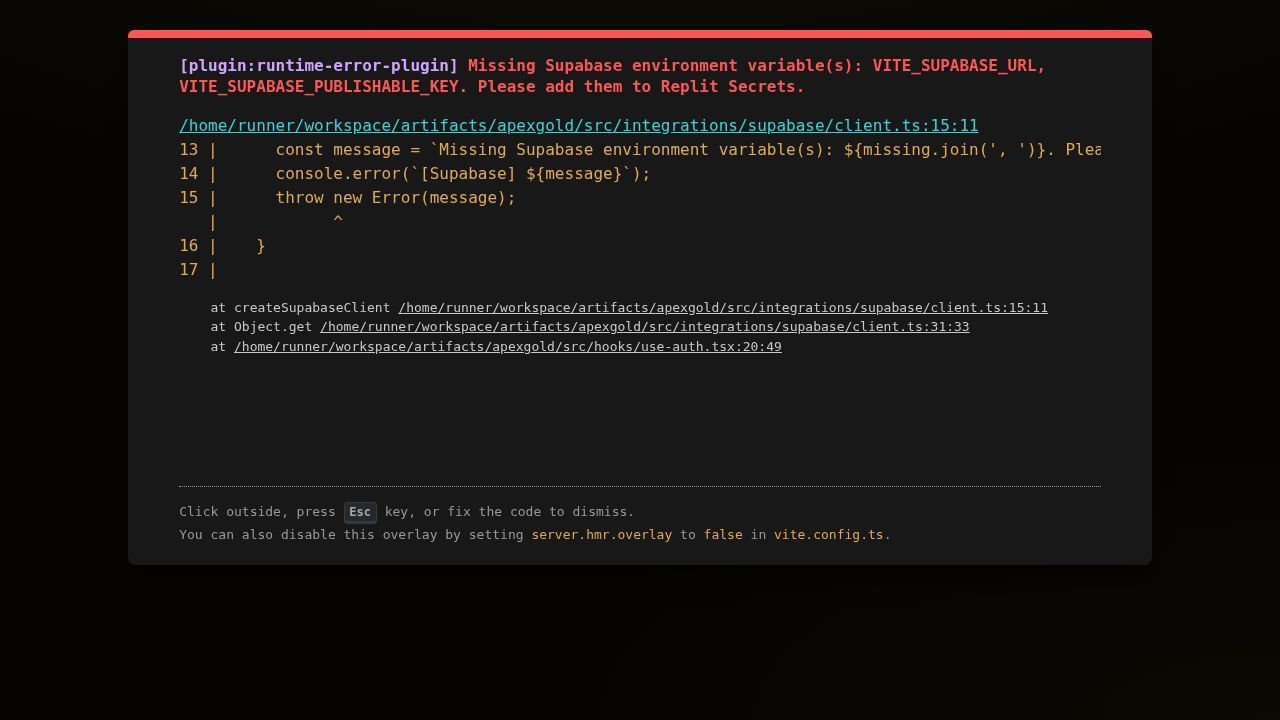
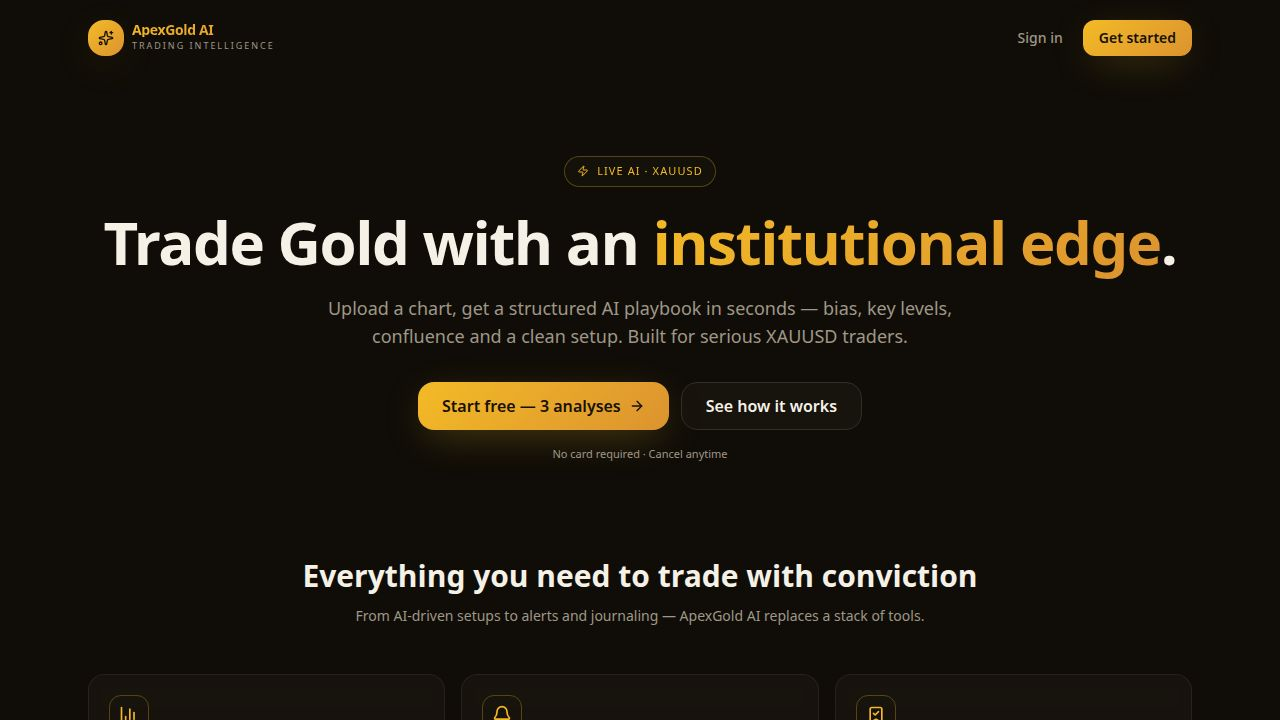
feat: show image size savings badge in chart preview before submit
Task: Show image size savings to the user before they submit a chart (#5)

Changes:
- Updated `fileToCompressedDataUrl` in `ApexDashboard.tsx` to return two
  new fields alongside the existing `url`, `base64`, and `mime`:
    • `compressedKB` — the post-compression byte size in KB, computed as
      `Math.round(base64.length * 0.75 / 1024)` (accurate base64 → bytes)
    • `wasResized` — boolean, true when the original image exceeded 900px
      on either side and was scaled down before JPEG encoding
- Updated the `file` state type in `ScreenshotAnalyzer` to include the
  two new fields.
- Added a badge row absolutely positioned at the bottom-left of the image
  preview container:
    • "Compressed to X KB" badge (always shown after a file is selected)
    • "Resized for faster analysis" badge (only shown when `wasResized` is true)
  Both badges use the existing frosted-glass style (bg-background/80 +
  backdrop-blur + border-border) and a small gold Zap/Activity icon.

No deviations from the task spec. The badges appear immediately after
the user selects a file and before they press "Analyze Chart", giving
clear visibility into the optimization that took place.

Replit-Task-Id: c59bdd95-94af-4bb7-b052-95d569714ce5

diff --git a/artifacts/apexgold/src/components/ApexDashboard.tsx b/artifacts/apexgold/src/components/ApexDashboard.tsx
@@ -50,7 +50,7 @@ const WHATSAPP_URL = `https://wa.me/${WHATSAPP_NUMBER}?text=${WHATSAPP_MSG}`;
 const ADMIN_EMAIL = "[email redacted]";
 const FREE_TRIAL_LIMIT = 3;
 
-async function fileToCompressedDataUrl(file: File): Promise<{ url: string; base64: string; mime: string }> {
+async function fileToCompressedDataUrl(file: File): Promise<{ url: string; base64: string; mime: string; compressedKB: number; wasResized: boolean }> {
   const sourceUrl = URL.createObjectURL(file);
   try {
     const image = new Image();
@@ -59,6 +59,7 @@ async function fileToCompressedDataUrl(file: File): Promise<{ url: string; base6
 
     const maxSide = 900;
     const scale = Math.min(1, maxSide / Math.max(image.naturalWidth, image.naturalHeight));
+    const wasResized = scale < 1;
     const canvas = document.createElement("canvas");
     canvas.width = Math.max(1, Math.round(image.naturalWidth * scale));
     canvas.height = Math.max(1, Math.round(image.naturalHeight * scale));
@@ -71,7 +72,10 @@ async function fileToCompressedDataUrl(file: File): Promise<{ url: string; base6
     for (const quality of [0.70, 0.60, 0.50]) {
       const url = canvas.toDataURL(mime, quality);
       const base64 = url.split(",")[1] ?? "";
-      if (base64.length <= 1_500_000) return { url, base64, mime };
+      if (base64.length <= 1_500_000) {
+        const compressedKB = Math.round(base64.length * 0.75 / 1024);
+        return { url, base64, mime, compressedKB, wasResized };
+      }
     }
     throw new Error("Image is too large. Please crop the chart area and try again.");
   } finally {
@@ -855,7 +859,7 @@ function ChatCard() {
 function ScreenshotAnalyzer({ onSaved }: { onSaved?: () => void }) {
   const { user } = useAuth();
   const { unlimited, isAdmin, subscription, loading: accessLoading } = useAccess();
-  const [file, setFile] = useState<{ url: string; base64: string; mime: string } | null>(null);
+  const [file, setFile] = useState<{ url: string; base64: string; mime: string; compressedKB: number; wasResized: boolean } | null>(null);
   const [drag, setDrag] = useState(false);
   const [loading, setLoading] = useState(false);
   const [result, setResult] = useState<Annotation | null>(null);
@@ -1001,6 +1005,18 @@ function ScreenshotAnalyzer({ onSaved }: { onSaved?: () => void }) {
               className="w-full h-auto block max-h-[420px] object-contain"
             />
             {result && <AnnotationOverlay ann={result} />}
+            <div className="absolute bottom-2 left-2 flex items-center gap-1.5 flex-wrap">
+              <span className="inline-flex items-center gap-1 text-[10px] font-semibold px-2 py-0.5 rounded-full bg-background/80 backdrop-blur border border-border text-muted-foreground">
+                <Zap className="w-2.5 h-2.5 text-gold" />
+                Compressed to {file.compressedKB} KB
+              </span>
+              {file.wasResized && (
+                <span className="inline-flex items-center gap-1 text-[10px] font-semibold px-2 py-0.5 rounded-full bg-background/80 backdrop-blur border border-border text-muted-foreground">
+                  <Activity className="w-2.5 h-2.5 text-gold" />
+                  Resized for faster analysis
+                </span>
+              )}
+            </div>
             <button
               onClick={reset}
               className="absolute top-2 right-2 w-7 h-7 rounded-full bg-background/80 backdrop-blur flex items-center justify-center hover:bg-destructive hover:text-destructive-foreground transition-colors"